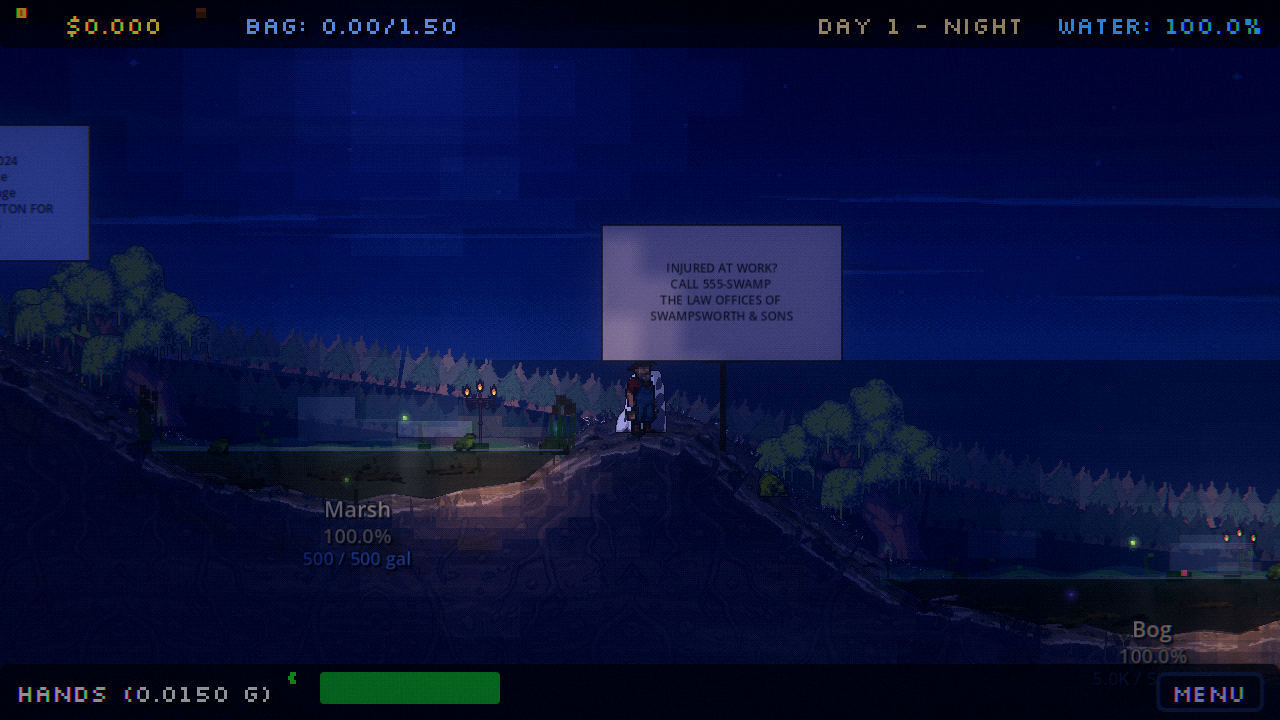
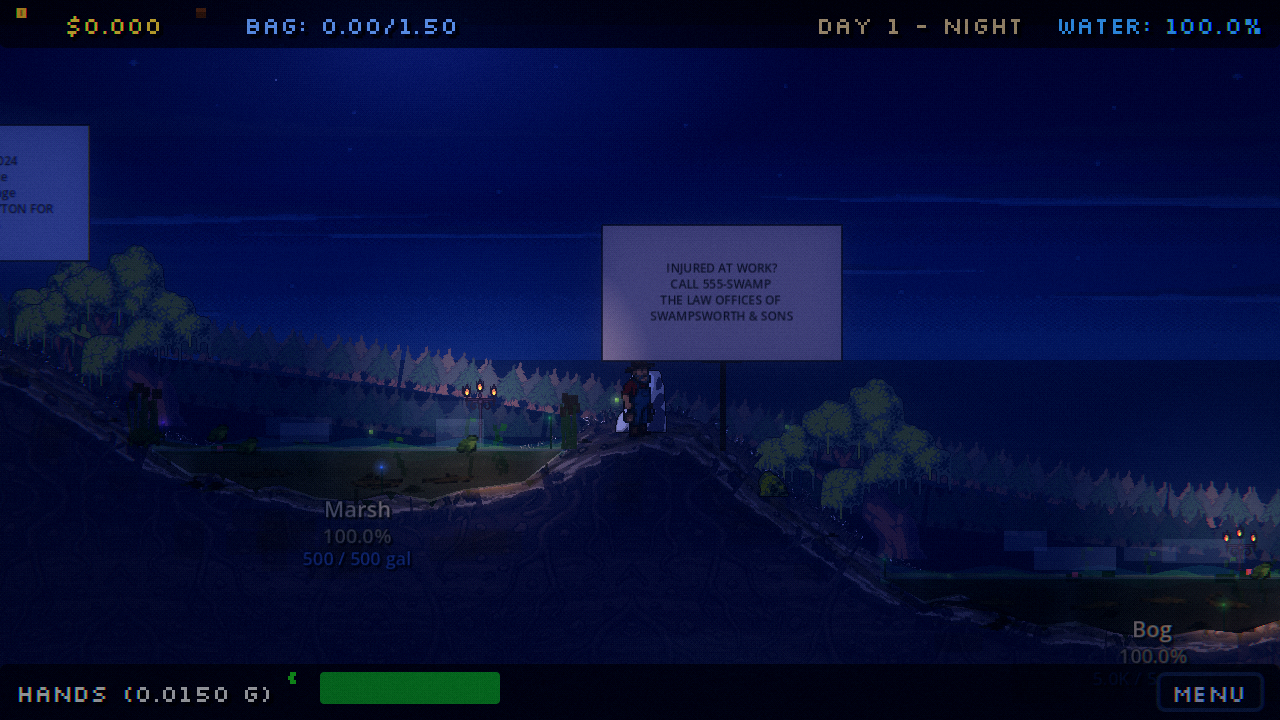
v3 critters-night: smooth light falloff, fix blocky lamp/moon glow
Round 3: lamp ground glow, lamp PointLight2D, and the moon wash all reused
glow_16.png -- a hand-baked pixel glow (6 stepped alpha rings on a 32px
NEAREST texture), correct at firefly scale but blocky when scaled up 5-10x
for lamps/moon.

- Added a GradientTexture2D radial glow (128x128, smooth) for lights only;
  set TEXTURE_FILTER_LINEAR on just those nodes (module root stays NEAREST
  for every pixel-art sprite -- lights aren't art, per rule 4).
- Shrank + re-anchored the lamp ground glow and moon wash so they sit above
  the surface line instead of bleeding into the underground dirt
  cross-section on sloped terrain; shrank the lamp PointLight2D radius to
  match.

Re-captured pools_night_d0.png and town_night.png -- no visible stepping at
3x pixel-crop zoom. town_night.png also shows a frog on a lily pad near the
town-edge lamp, the first direct confirmation of frog rendering.

Claude-Session: https://claude.ai/code/session_01CcpffDnjW4qk7K15J9eHGm

diff --git a/docs/plans/revamp-tracks/critters-night.md b/docs/plans/revamp-tracks/critters-night.md
@@ -92,6 +92,37 @@ addressed:
    which are confirmed working. Not independently visually confirmed;
    flagging rather than claiming it.
 
+## Round 3 (coordinator review: blocky light textures)
+
+The lamp ground-glow, lamp `PointLight2D`, and moon wash all reused
+`glow_16.png` — a hand-baked PIXEL glow (6 stepped alpha rings on a 32px
+texture, x2 NEAREST like every other art asset). Correct at firefly/
+glow-plant scale (1-2 art px), but scaled up 5-10x for lamps/moon it read as
+blocky NEAREST-filtered squares, exactly the "JPEG blocking" the coordinator
+flagged.
+
+Fix in `night.gd`:
+- Added `_build_smooth_glow_texture()`: a `GradientTexture2D`, radial fill,
+  128x128, white-to-transparent. Lights aren't art (rule 4's explicit
+  exception), so this is real smooth falloff, not a pixel asset.
+- Lamp glow sprite, lamp `PointLight2D`, and moon wash all switched from
+  `glow_16.png` to this texture, each with `texture_filter =
+  CanvasItem.TEXTURE_FILTER_LINEAR` set explicitly on that node only (the
+  module root stays `TEXTURE_FILTER_NEAREST` for every pixel-art sprite).
+- Also shrank and re-anchored the lamp ground glow (scale 5.5x2.8 → 0.55x0.16,
+  position raised) so it sits mostly above the surface line instead of
+  bleeding down into the underground dirt cross-section on sloped terrain,
+  and shrank the `PointLight2D` radius (texture_scale 10 → 1.4) and the moon
+  wash (scale 14x7 → 3.2x1.4, position shifted closer to the moon) for the
+  same reason.
+
+Re-captured `pools_night_d0.png` and `town_night.png` (camx 1500 / 900, tod
+0.85): lamp ground pools and the moon wash now read as soft gradients, no
+visible stepping at 3x pixel-crop zoom (checked). `town_night.png` also
+happens to show a frog sprite near the town-edge lamp post on a lily pad —
+the first direct confirmation of frog rendering in this session (turtle
+still unconfirmed).
+
 ## Captures (read back)
 
 `_screenshots/revamp-2026-09-11/critters-night/`:
